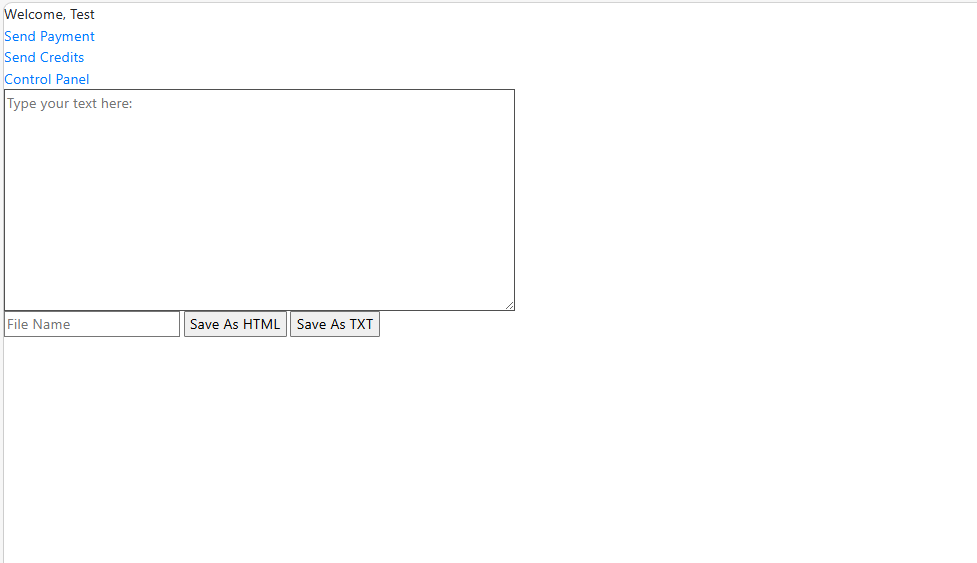
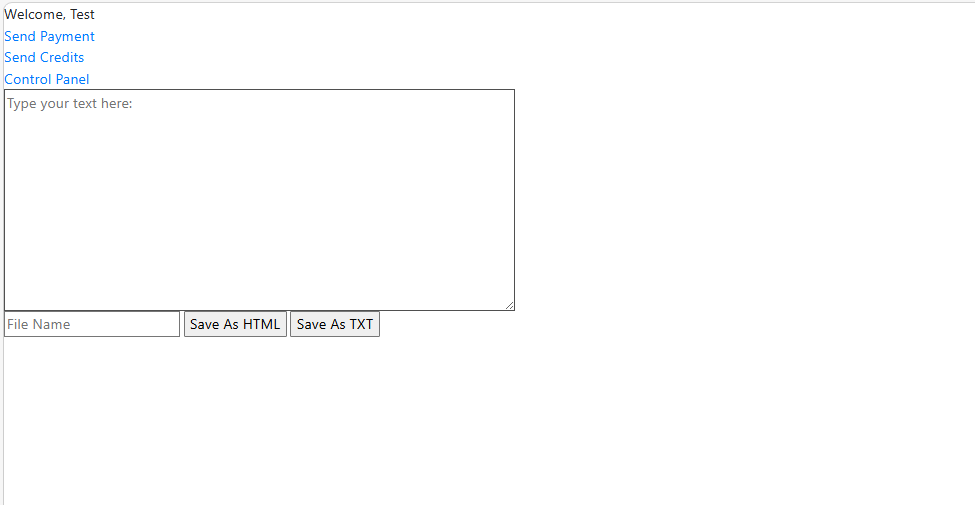
Re-positioned elements and grids.
Re-positioned elements and grids in the index.html file, made changes to some of the CSS styling on various divs and resized/added project images.

Changed region(s): [[0.0, 0.5347, 0.4, 0.6535], [0.0, 0.0, 0.5231, 0.2376]]

diff --git a/index.html b/index.html
@@ -26,11 +26,12 @@
       </div>
     </div>
 
-    <div class=" grid-cols-2 my-20">
-      <div class="about text-white font-sans font-bold text-l text-center">
-        <img src="profile.png" class=" h-80 border rounded-xl mx-auto md:scale-75"></div>
+    <div class="grid grid-flow-col grid-rows-1 container mx-auto">
+      <div class="col-span-2 text-white font-sans my-40 font-bold text-l font-lg">
+        <img src="profile.png" class=" h-75 border rounded-xl md:scale-90 mx-auto">
+      <p class="text-center col-span-2">WEB DEVELOPER</p></div>
 
-      <div class="border container mx-auto text-white/30 rounded-lg w-160 h-80 content-center">
+      <div class=" col-span-2 border container my-44 text-white/30 rounded-lg h-75 content-center">
         <p class="text-white font-sans font-bold text-xl text-center">Languages</p>
         <div class="grid h-7 grid-cols-5 container text-center mx-auto my-5 w-150 gap-4 text-white hover">
           <div class="bg-white/30 backdrop-blur-sm w-25 shadow rounded-lg duration-300 hover:scale-110"><p>HTML/CSS</p></div>
@@ -60,14 +61,14 @@
     <div class="bg-white/30 h-1 w-full my-20"></div>
     <p class="font-sans font-bold text-white text-xl text-center my-12">Projects</p>
     
-    <div class="grid h-70 grid-cols-4 mx-auto content-center container text-white text-center my-20 font-sans text-xl gap-5">
+    <div class="grid h-70 grid-cols-4 content-center mx-auto container text-white text-center my-20 font-sans text-xl gap-5">
       <div class="duration-300 hover:scale-110">
-        <div class="h-1 w-full bg-white/30 container backdrop-blur-sm shadow rounded-lg duration-300 hover:scale-110 mx-auto"></div>
+        <div class="h-1 w-full bg-white/30 container backdrop-blur-sm shadow rounded-lg duration-300 hover:scale-110"></div>
           <img src="mywebsite.PNG">         
           <p> Sleek and Modern Portfolio Website.</p>
           <p> Hosted using GitPages.</p>
         <div class="bg-white/30 h-1 w-full"></div>
-        <div class="grid h-7 grid-cols-4 gap-30 mx-7 my-2">
+        <div class="grid h-7 grid-cols-4 gap-30 mx-4 my-2 ">
           <div class="bg-white/30 backdrop-blur-sm w-25 shadow rounded-lg duration-300 hover:scale-110"><p>HTML</p></div>
           <div class="bg-white/30 backdrop-blur-sm w-25 shadow rounded-lg duration-300 hover:scale-110"><p>CSS</p></div>
           <div class="bg-white/30 backdrop-blur-sm w-25 shadow rounded-lg duration-300 hover:scale-110"><p>Tailwind</p></div>
@@ -75,11 +76,11 @@
       </div>
 
       <div class="duration-300 hover:scale-110">
-        <div class="h-1 w-full bg-white/30 container backdrop-blur-sm shadow rounded-lg duration-300 hover:scale-110 mx-auto"></div>
+        <div class="h-1 w-full bg-white/30 container backdrop-blur-sm shadow rounded-lg duration-300 hover:scale-110"></div>
           <img src="Unit-Testing.PNG">         
           <p>A C# application imeplementing interfaces and using unit testing. </p>
         <div class="bg-white/30 h-1 w-full"></div>
-        <div class="grid h-7 grid-cols-4 gap-30 mx-7 my-2">
+        <div class="grid h-7 grid-cols-4 gap-30 mx-4  my-2">
           <div class="bg-white/30 backdrop-blur-sm w-25 shadow rounded-lg duration-300 hover:scale-110"><p>C#</p></div>
           <div class="bg-white/30 backdrop-blur-sm w-25 shadow rounded-lg duration-300 hover:scale-110"><p>CSS</p></div>
           <div class="bg-white/30 backdrop-blur-sm w-25 shadow rounded-lg duration-300 hover:scale-110"><p>Tailwind</p></div>
@@ -87,11 +88,23 @@
       </div>
 
       <div class="duration-300 hover:scale-110">
-        <div class="h-1 w-full bg-white/30 container backdrop-blur-sm shadow rounded-lg duration-300 hover:scale-110 mx-auto"></div>
+        <div class="h-1 w-full bg-white/30 container backdrop-blur-sm shadow rounded-lg duration-300 hover:scale-110"></div>
           <img src="AdminPortal1.PNG">         
           <p> Simple Backend focused website focused on database creation and modification. </p>
         <div class="bg-white/30 h-1 w-full"></div>
-        <div class="grid h-7 grid-cols-4 gap-30 mx-7 my-2">
+        <div class="grid h-7 grid-cols-4 gap-30 mx-4 my-2">
+          <div class="bg-white/30 backdrop-blur-sm w-25 shadow rounded-lg duration-300 hover:scale-110"><p>C#</p></div>
+          <div class="bg-white/30 backdrop-blur-sm w-25 shadow rounded-lg duration-300 hover:scale-110"><p>CSS</p></div>
+          <div class="bg-white/30 backdrop-blur-sm w-25 shadow rounded-lg duration-300 hover:scale-110"><p>Tailwind</p></div>
+        </div>
+      </div>
+
+      <div class="duration-300 hover:scale-110">
+        <div class="h-1 w-full bg-white/30 container backdrop-blur-sm shadow rounded-lg duration-300 hover:scale-110"></div>
+          <img src="Concurrency.PNG">         
+          <p>  A simulation built with Java, making use of multithreading to achieve concurrency</p>
+        <div class="bg-white/30 h-1 w-full"></div>
+        <div class="grid h-7 grid-cols-4 gap-30 mx-4  my-2">
           <div class="bg-white/30 backdrop-blur-sm w-25 shadow rounded-lg duration-300 hover:scale-110"><p>C#</p></div>
           <div class="bg-white/30 backdrop-blur-sm w-25 shadow rounded-lg duration-300 hover:scale-110"><p>CSS</p></div>
           <div class="bg-white/30 backdrop-blur-sm w-25 shadow rounded-lg duration-300 hover:scale-110"><p>Tailwind</p></div>

diff --git a/output.css b/output.css
@@ -11,6 +11,8 @@
     --color-pink-500: oklch(65.6% 0.241 354.308);
     --color-white: #fff;
     --spacing: 0.25rem;
+    --text-lg: 1.125rem;
+    --text-lg--line-height: calc(1.75 / 1.125);
     --text-xl: 1.25rem;
     --text-xl--line-height: calc(1.75 / 1.25);
     --font-weight-bold: 700;
@@ -179,6 +181,15 @@
   .z-10 {
     z-index: 10;
   }
+  .col-span-2 {
+    grid-column: span 2 / span 2;
+  }
+  .col-span-3 {
+    grid-column: span 3 / span 3;
+  }
+  .row-span-2 {
+    grid-row: span 2 / span 2;
+  }
   .container {
     width: 100%;
     @media (width >= 40rem) {
@@ -197,11 +208,23 @@
       max-width: 96rem;
     }
   }
+  .mx-4 {
+    margin-inline: calc(var(--spacing) * 4);
+  }
+  .mx-5 {
+    margin-inline: calc(var(--spacing) * 5);
+  }
+  .mx-6 {
+    margin-inline: calc(var(--spacing) * 6);
+  }
   .mx-7 {
     margin-inline: calc(var(--spacing) * 7);
   }
   .mx-12 {
     margin-inline: calc(var(--spacing) * 12);
+  }
+  .mx-40 {
+    margin-inline: calc(var(--spacing) * 40);
   }
   .mx-auto {
     margin-inline: auto;
@@ -218,6 +241,30 @@
   .my-20 {
     margin-block: calc(var(--spacing) * 20);
   }
+  .my-25 {
+    margin-block: calc(var(--spacing) * 25);
+  }
+  .my-30 {
+    margin-block: calc(var(--spacing) * 30);
+  }
+  .my-40 {
+    margin-block: calc(var(--spacing) * 40);
+  }
+  .my-42 {
+    margin-block: calc(var(--spacing) * 42);
+  }
+  .my-44 {
+    margin-block: calc(var(--spacing) * 44);
+  }
+  .my-45 {
+    margin-block: calc(var(--spacing) * 45);
+  }
+  .my-50 {
+    margin-block: calc(var(--spacing) * 50);
+  }
+  .my-100 {
+    margin-block: calc(var(--spacing) * 100);
+  }
   .flex {
     display: flex;
   }
@@ -226,6 +273,9 @@
   }
   .hidden {
     display: none;
+  }
+  .inline {
+    display: inline;
   }
   .table {
     display: table;
@@ -236,11 +286,17 @@
   .h-7 {
     height: calc(var(--spacing) * 7);
   }
+  .h-10 {
+    height: calc(var(--spacing) * 10);
+  }
   .h-25 {
     height: calc(var(--spacing) * 25);
   }
   .h-70 {
     height: calc(var(--spacing) * 70);
+  }
+  .h-75 {
+    height: calc(var(--spacing) * 75);
   }
   .h-80 {
     height: calc(var(--spacing) * 80);
@@ -257,6 +313,9 @@
   .w-25 {
     width: calc(var(--spacing) * 25);
   }
+  .w-50 {
+    width: calc(var(--spacing) * 50);
+  }
   .w-100 {
     width: calc(var(--spacing) * 100);
   }
@@ -265,6 +324,9 @@
   }
   .w-160 {
     width: calc(var(--spacing) * 160);
+  }
+  .w-200 {
+    width: calc(var(--spacing) * 200);
   }
   .w-450 {
     width: calc(var(--spacing) * 450);
@@ -281,14 +343,29 @@
   .resize {
     resize: both;
   }
+  .grid-flow-col {
+    grid-auto-flow: column;
+  }
+  .grid-cols-1 {
+    grid-template-columns: repeat(1, minmax(0, 1fr));
+  }
   .grid-cols-2 {
     grid-template-columns: repeat(2, minmax(0, 1fr));
+  }
+  .grid-cols-3 {
+    grid-template-columns: repeat(3, minmax(0, 1fr));
   }
   .grid-cols-4 {
     grid-template-columns: repeat(4, minmax(0, 1fr));
   }
   .grid-cols-5 {
     grid-template-columns: repeat(5, minmax(0, 1fr));
+  }
+  .grid-rows-1 {
+    grid-template-rows: repeat(1, minmax(0, 1fr));
+  }
+  .grid-rows-2 {
+    grid-template-rows: repeat(2, minmax(0, 1fr));
   }
   .content-center {
     align-content: center;
@@ -298,6 +375,12 @@
   }
   .justify-between {
     justify-content: space-between;
+  }
+  .gap-1 {
+    gap: calc(var(--spacing) * 1);
+  }
+  .gap-2 {
+    gap: calc(var(--spacing) * 2);
   }
   .gap-3 {
     gap: calc(var(--spacing) * 3);
@@ -362,6 +445,10 @@
   }
   .font-sans {
     font-family: var(--font-sans);
+  }
+  .text-lg {
+    font-size: var(--text-lg);
+    line-height: var(--tw-leading, var(--text-lg--line-height));
   }
   .text-xl {
     font-size: var(--text-xl);
@@ -429,11 +516,35 @@
       padding-inline: calc(var(--spacing) * 6);
     }
   }
+  .md\:scale-50 {
+    @media (width >= 48rem) {
+      --tw-scale-x: 50%;
+      --tw-scale-y: 50%;
+      --tw-scale-z: 50%;
+      scale: var(--tw-scale-x) var(--tw-scale-y);
+    }
+  }
   .md\:scale-75 {
     @media (width >= 48rem) {
       --tw-scale-x: 75%;
       --tw-scale-y: 75%;
       --tw-scale-z: 75%;
+      scale: var(--tw-scale-x) var(--tw-scale-y);
+    }
+  }
+  .md\:scale-90 {
+    @media (width >= 48rem) {
+      --tw-scale-x: 90%;
+      --tw-scale-y: 90%;
+      --tw-scale-z: 90%;
+      scale: var(--tw-scale-x) var(--tw-scale-y);
+    }
+  }
+  .md\:scale-100 {
+    @media (width >= 48rem) {
+      --tw-scale-x: 100%;
+      --tw-scale-y: 100%;
+      --tw-scale-z: 100%;
       scale: var(--tw-scale-x) var(--tw-scale-y);
     }
   }
